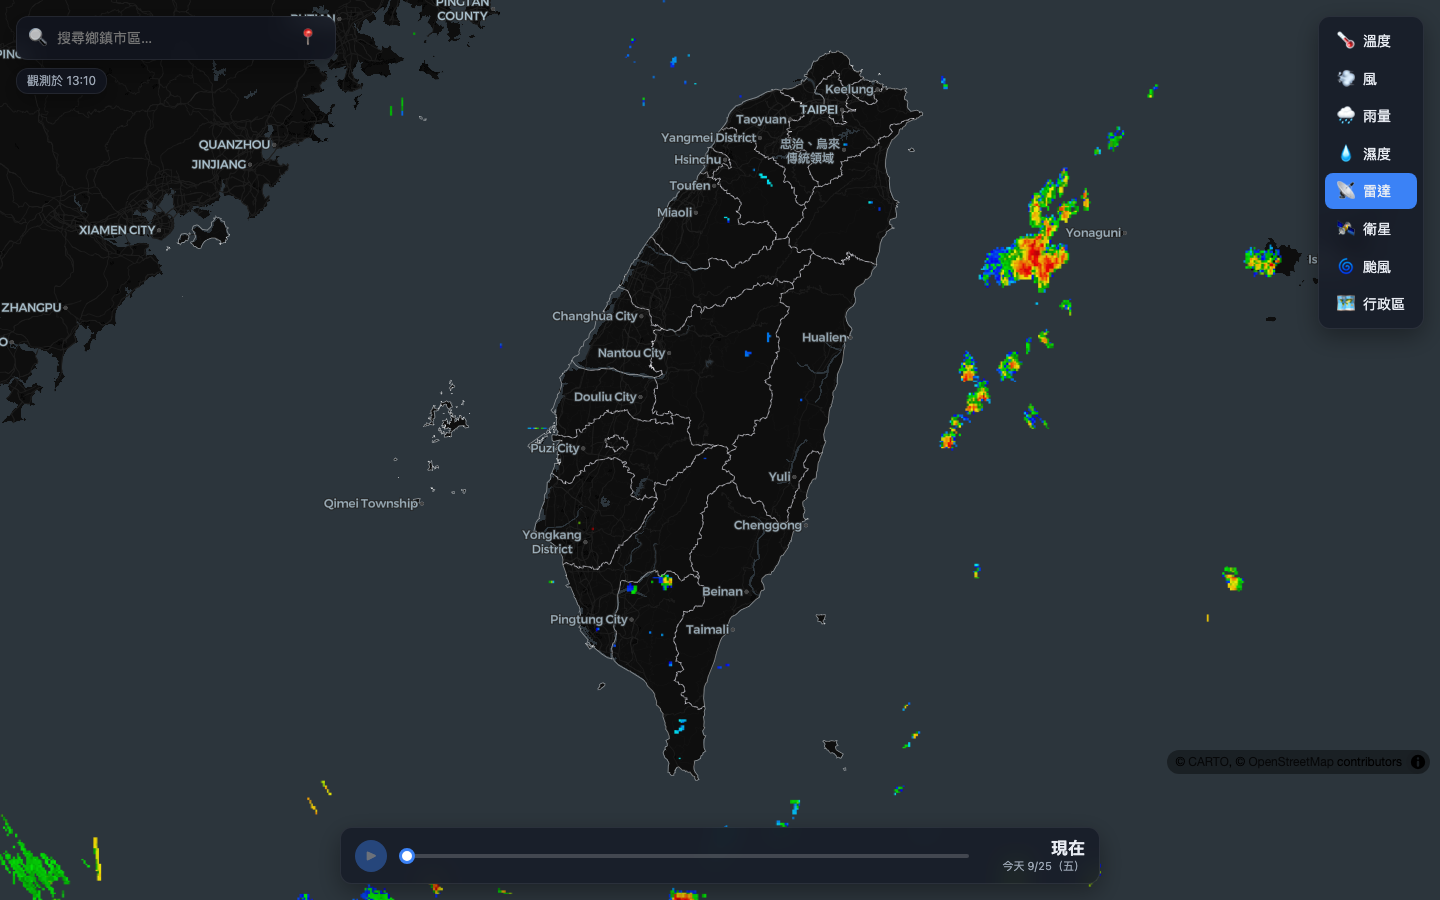
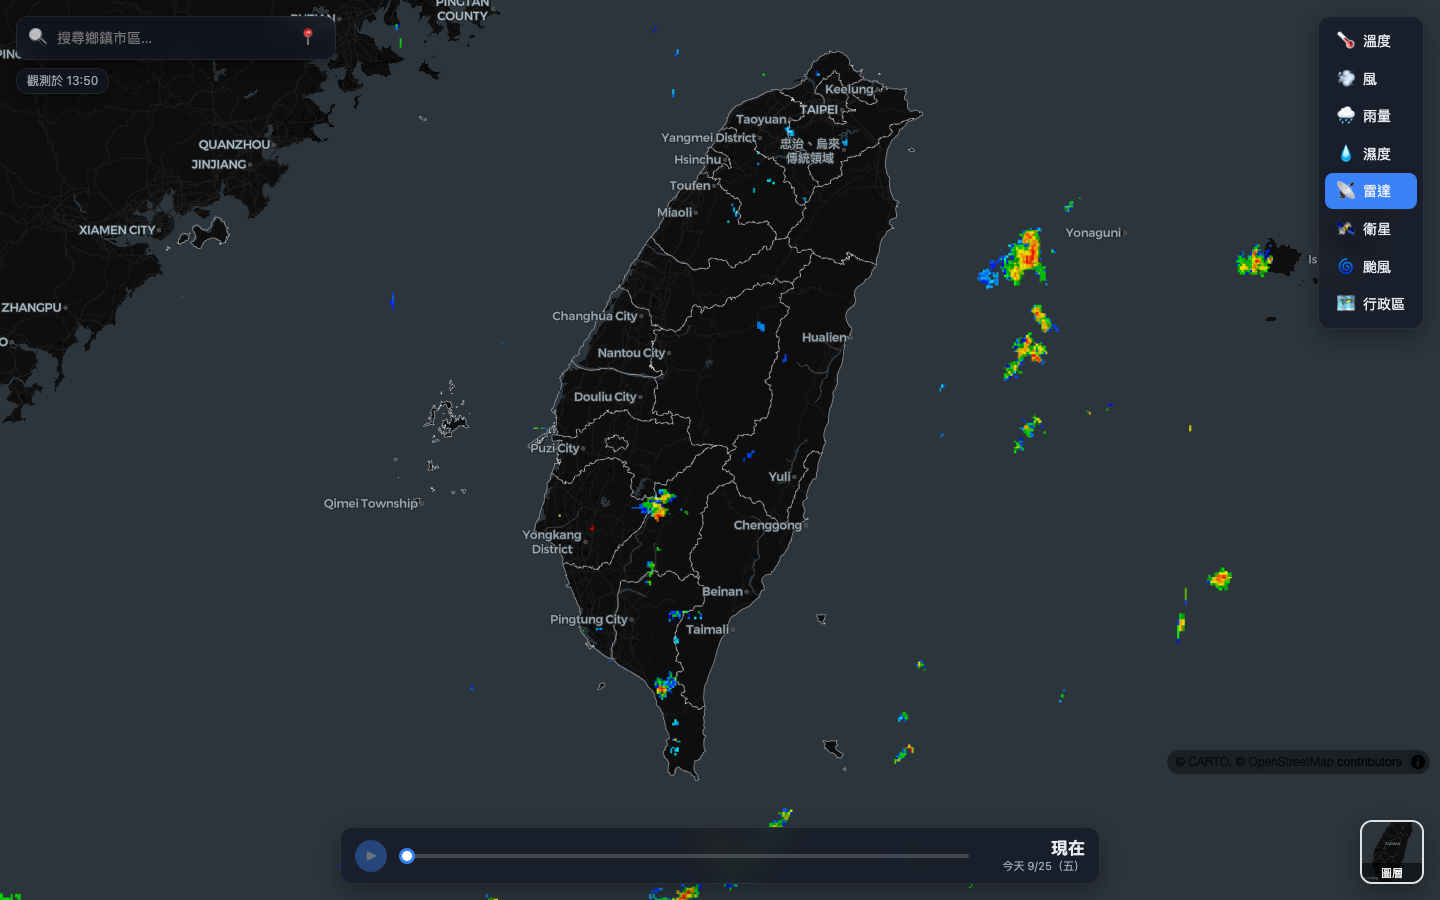
docs: retake screenshots and add basemap switcher
新增右下角底圖切換後，README 截圖尚未呈現該按鈕；全部重
拍，並新增衛星底圖疊雷達、展開底圖選單的截圖。

The README screenshots predated the bottom-right basemap
switcher. Retake them all and add a shot of the satellite
basemap with radar and the basemap menu open.

diff --git a/README.md b/README.md
@@ -24,6 +24,10 @@
 |---|---|
 | ![行政區](docs/screenshots/admin.png) | ![逐層選取](docs/screenshots/admin-town.png) |
 
+| 底圖切換（右下角：深色／淺色／街道／衛星／地形；圖為衛星底圖＋雷達） |
+|---|
+| ![底圖切換](docs/screenshots/basemap.png) |
+
 ## 功能
 
 - **八種圖層**：溫度、風、雨量、濕度、雷達、衛星、颱風、行政區
